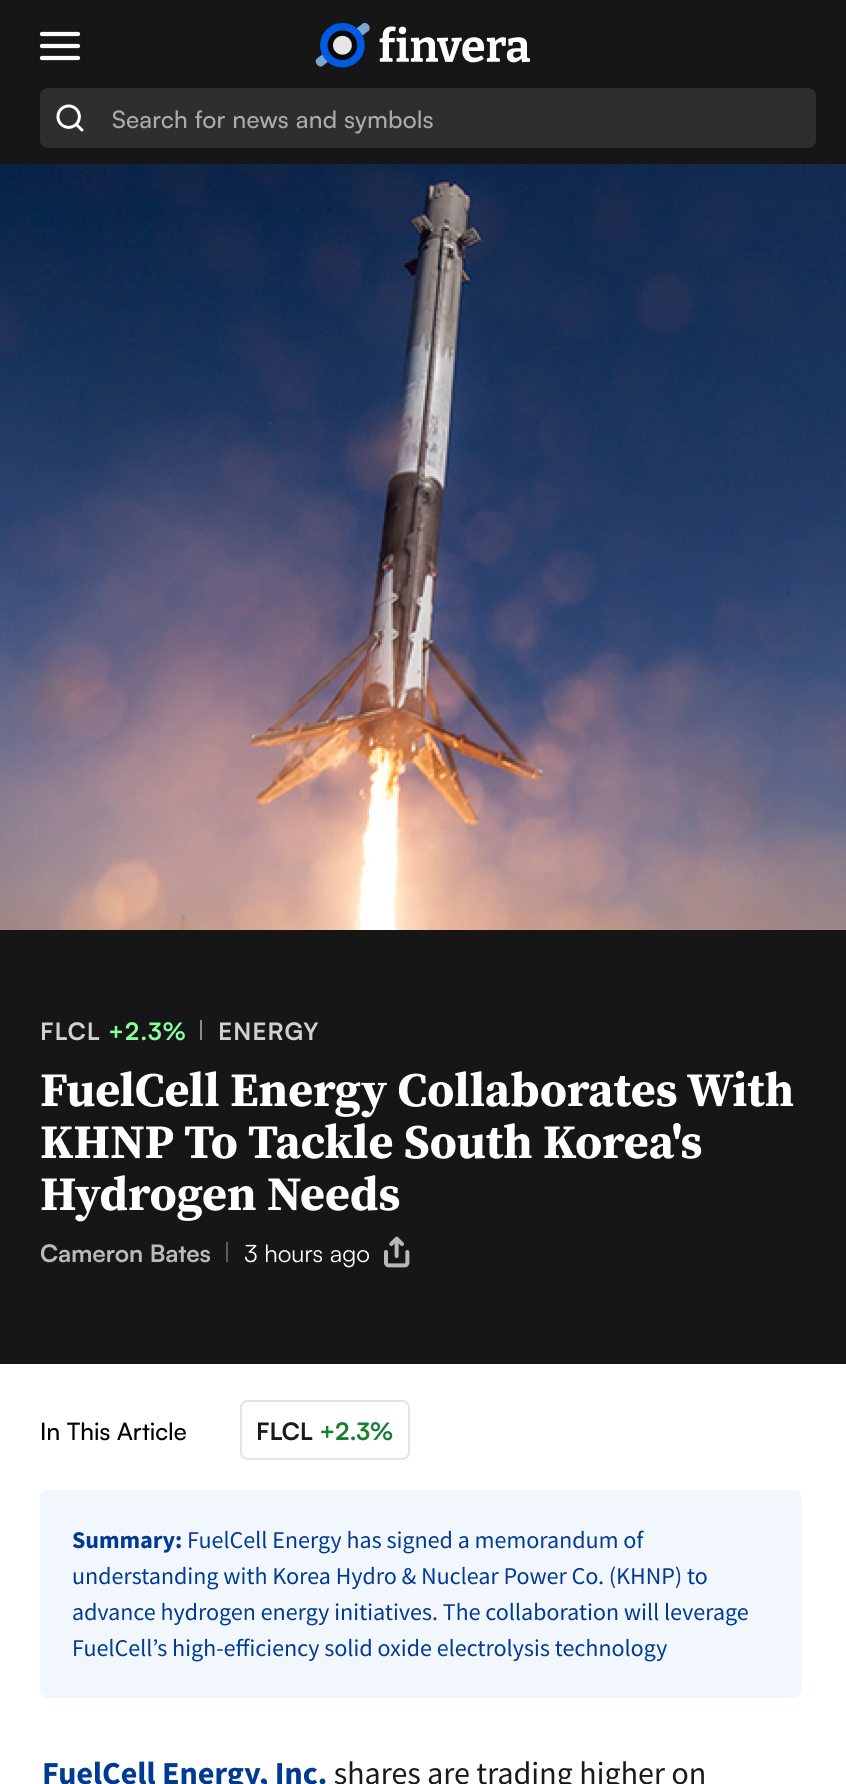
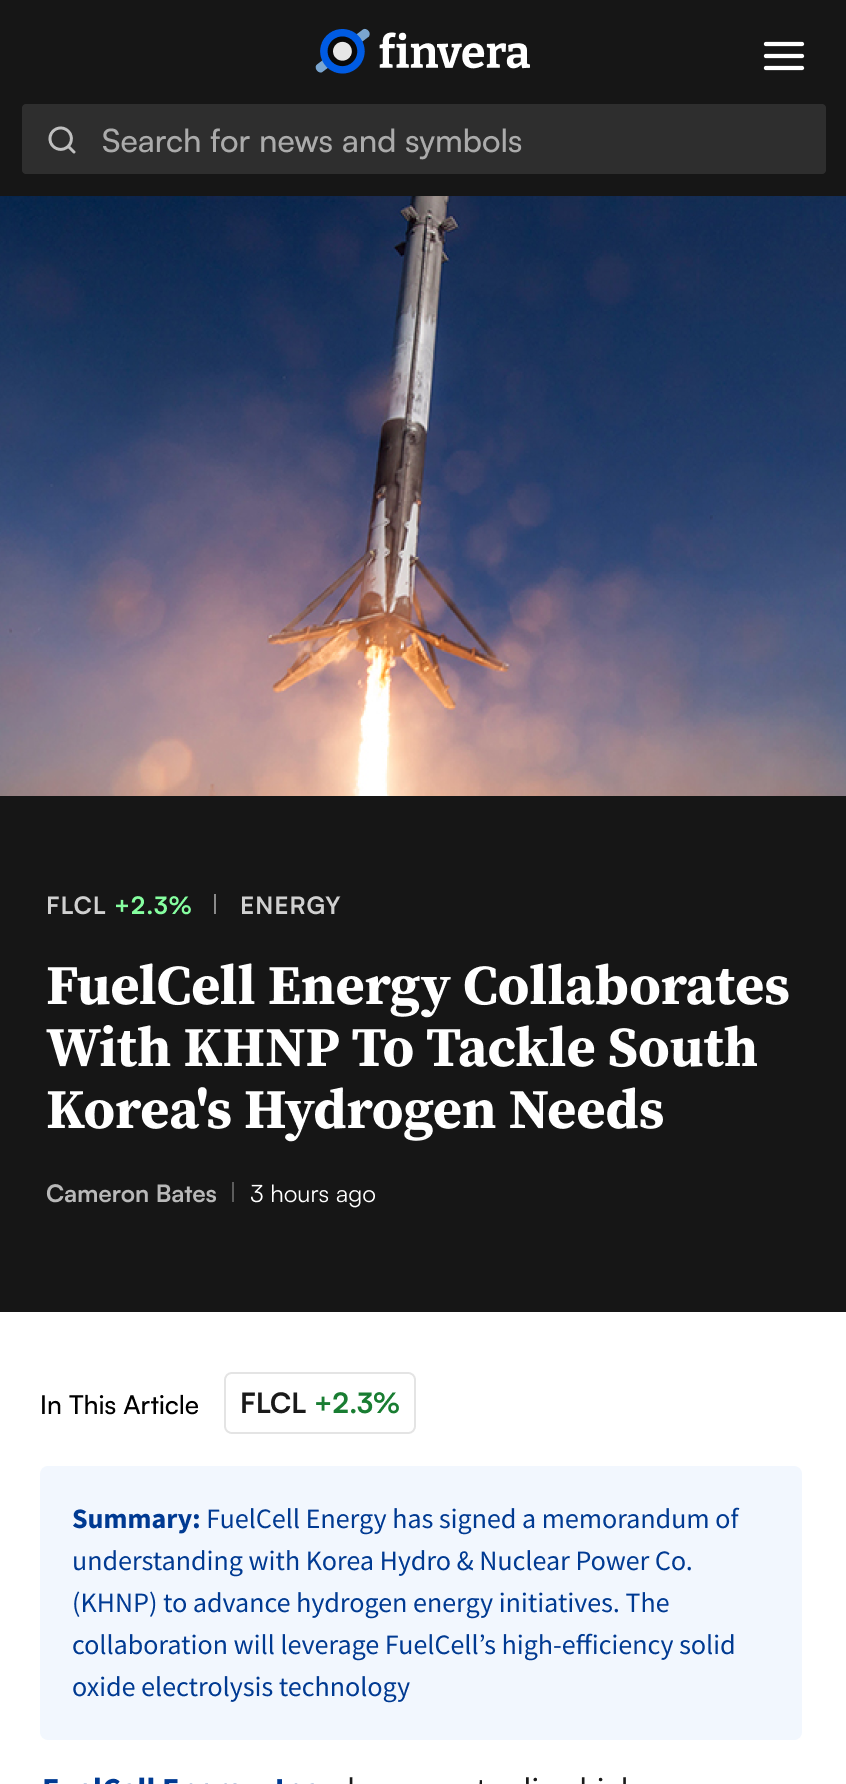
Changes

diff --git a/finvera.html b/finvera.html
@@ -56,11 +56,11 @@
           <article class="cs-content" style="padding: 0 3em;">
 
             <section class="wy-section-narrow">
-              <p class="wy-lede">Finvera is a small-cap stock news platform I designed for a friend's startup. While large-cap stocks have endless coverage, reliable data for the small-cap market is scattered or nonexistent. We built a dedicated home that combines fast-moving news with stock-centric data and tools.</p>
+              <p class="wy-lede">Finvera is a small-cap stock news and data platform. While large-cap stocks have endless coverage, reliable data for the small-cap market is scattered or nonexistent. We built a dedicated home that combines real-time stock data with AI sentiment analysis tools to give investors a clearer picture of where small-caps are headed.</p>
               <div class="wy-columns">
                 <div class="wy-col">
                   <h4>My Role</h4>
-                  <p>UI Designer &amp; Developer</p>
+                  <p>UI Designer &amp; Front-End Developer</p>
                 </div>
                 <div class="wy-col">
                   <h4>Tools / Methods</h4>
@@ -70,21 +70,50 @@ Web Development</p>
                 </div>
                 <div class="wy-col">
                   <h4>Timeline</h4>
-                  <p>2024</p>
+                  <div class="wy-timeline">
+                    <div class="wy-timeline-item">
+                      <div class="wy-timeline-marker"></div>
+                      <div class="wy-timeline-content">
+                        <div class="wy-timeline-date">Dec '24</div>
+                        <div class="wy-timeline-label">Project Start</div>
+                      </div>
+                    </div>
+                    <div class="wy-timeline-item">
+                      <div class="wy-timeline-marker"></div>
+                      <div class="wy-timeline-content">
+                        <div class="wy-timeline-date">Feb '25</div>
+                        <div class="wy-timeline-label">Startup Folds</div>
+                      </div>
+                    </div>
+                  </div>
                 </div>
+              </div>
+              <div class="wy-cta">
+                <a href="https://finvera-site-puxp.vercel.app/" target="_blank" class="button-primary">Visit Finvera <span class="material-icons">open_in_new</span></a>
+                <p style="font-size: 12px; color: rgba(0,0,0,0.45); margin-top: 8px;">Prototype only. The live product is no longer active.</p>
               </div>
             </section>
 
             <section class="cs-article-body" id="gallery-finvera">
 
-
               <div class="cs-article-section">
                 <div class="cs-article-section-label">
                   <span class="cs-section-name">The Challenge</span>
                 </div>
-                <h3>Conversion vs. Trust</h3>
-                <p>The biggest UX tension was figuring out how hard to push users down the funnel without being obnoxious about it. As a small-cap media business, email signups matter — but aggressive gating degrades the reading experience and undermines credibility, especially for investors evaluating whether the site is worth returning to.</p>
-                <p>The work centered on finding the right balance: how much content should be accessible before requiring an email? Too aggressive and you turn people away. Too passive and you don't build your list. The solution was layered access — give enough value upfront to demonstrate what the site offers, then gate the more specialized tools and data.</p>
+                <h3>Solicitation is an art</h3>
+                <p>The biggest UX challenge was nudging users down the funnel without feeling pushy or gating too much content. Flooding the site with ads would undermine our minimalist design strategy, which was meant to distinguish us from competing sites that tend to bombard users with flashy promotions. But hiding too much behind a freewall risked driving up the bounce rate. We needed emails, and we needed to earn them.
+                  </p>
+                <p>The solution was a set of promotional banners, visually consistent with the site's design language, that framed our newsletter as an exclusive resource: "Your unfair advantage in small-cap investing, delivered twice weekly." "Get Finvera's premium newsletter 100% free." The promotions are prominent but never distracting. There are no pop-ups. And beneath the email input field, a short line reads: "We respect your inbox - no spam, ever." Once a user has read three articles, a soft freewall prompts them for their email before unlocking additional content.
+                </p>
+
+                <div class="cs-article-img-grid">
+                  <a href="img/finvera/Article Freewall 4.png" data-src="img/finvera/Article Freewall 4.png">
+                    <img src="img/finvera/Article Freewall 4.png" alt="Finvera — Soft freewall mid-article">
+                  </a>
+                  <a href="img/finvera/Homepage Newsletter Promo.png" data-src="img/finvera/Homepage Newsletter Promo.png">
+                    <img src="img/finvera/Homepage Newsletter Promo.png" alt="Finvera — Homepage newsletter promo">
+                  </a>
+                </div>
               </div>
 
               <div class="cs-article-section">
@@ -92,56 +121,16 @@ Web Development</p>
                   <span class="cs-section-name">Homepage</span>
                 </div>
                 <h3>The Front Page</h3>
-                <p>The site needed to do a lot: display news alongside comprehensive small-cap data, surface stock screeners, pull in analyst ratings, and present social media sentiment — all without overwhelming the reader. I explored several layout directions before landing on a structure that felt both fast and editorial, letting users move from "what happened?" to "what does it mean for this ticker?" without leaving the page.</p>
+                <p>The site needed to communicate Finvera's value as a provider of small-cap news, data, and market sentiment without overwhelming the reader. The goal was to position Finvera as the resource for understanding why small-caps move and where they're headed next. I explored several layout directions before landing on a structure that felt both scannable and editorial, somewhere between a financial dashboard and a news front page.
+                </p>
 
-                <div class="cs-article-img">
-                  <a href="img/finvera/Homepage Alt.png" data-src="img/finvera/Homepage Alt.png">
-                    <img src="img/finvera/Homepage Alt.png" alt="Finvera Homepage — Final design">
+                <div class="cs-article-img-grid cs-article-img-grid--desktop-mobile">
+                  <a href="img/finvera/homepage.png" data-src="img/finvera/homepage.png">
+                    <img src="img/finvera/homepage.png" alt="Finvera — Homepage">
                   </a>
-                </div>
-
-                <div class="cs-article-img-grid">
-                  <a href="img/finvera/Homepage Alt-1.png" data-src="img/finvera/Homepage Alt-1.png">
-                    <img src="img/finvera/Homepage Alt-1.png" alt="Finvera Homepage — Alternate layout A">
-                  </a>
-                  <a href="img/finvera/Homepage Alt-2.png" data-src="img/finvera/Homepage Alt-2.png">
-                    <img src="img/finvera/Homepage Alt-2.png" alt="Finvera Homepage — Alternate layout B">
-                  </a>
-                </div>
-                <p class="cs-article-img-caption">Homepage layout explorations — balancing news density with market data</p>
-
-                <div class="cs-article-img-grid cs-article-img-grid--phone">
                   <a href="img/finvera/Finvera Mobile - Home.png" data-src="img/finvera/Finvera Mobile - Home.png">
                     <img src="img/finvera/Finvera Mobile - Home.png" alt="Finvera — Mobile homepage">
                   </a>
-                  <a href="img/finvera/Finvera Mobile - Article.png" data-src="img/finvera/Finvera Mobile - Article.png">
-                    <img src="img/finvera/Finvera Mobile - Article.png" alt="Finvera — Mobile article view">
-                  </a>
-                </div>
-                <p class="cs-article-img-caption">Mobile views — homepage and article</p>
-              </div>
-
-              <div class="cs-article-section">
-                <div class="cs-article-section-label">
-                  <span class="cs-section-name">Articles &amp; Freewall</span>
-                </div>
-                <h3>A Freewall That Nudges, Not Nags</h3>
-                <p>Instead of hard-gating content immediately, I shaped the experience around allowing a limited amount of reading before requiring an email. Article layouts prioritize readability with generous whitespace and clear typography hierarchy, so users can understand the value of the platform before being asked to subscribe. The freewall placement was designed to feel earned and contextually relevant — not like an interruption.</p>
-
-                <div class="cs-article-img-grid">
-                  <a href="img/finvera/Article Page.png" data-src="img/finvera/Article Page.png">
-                    <img src="img/finvera/Article Page.png" alt="Finvera Article Page">
-                  </a>
-                  <a href="img/finvera/Article Page-1.png" data-src="img/finvera/Article Page-1.png">
-                    <img src="img/finvera/Article Page-1.png" alt="Finvera Article Page — Alternate treatment">
-                  </a>
-                </div>
-
-                <div class="cs-article-img">
-                  <a href="img/finvera/Article Freewall 4.png" data-src="img/finvera/Article Freewall 4.png">
-                    <img src="img/finvera/Article Freewall 4.png" alt="Finvera — Freewall treatment">
-                  </a>
-                  <p class="cs-article-img-caption">Freewall — enough content to demonstrate value before asking for a signup</p>
                 </div>
               </div>
 
@@ -150,24 +139,22 @@ Web Development</p>
                   <span class="cs-section-name">Algorithmic Images</span>
                 </div>
                 <h3>Solving the Image Problem</h3>
-                <p>Articles perform significantly better with compelling visuals, but small-cap companies rarely have high-quality media kits. Being a startup, Finvera didn't have a library of images to draw from either. I designed a fallback system: the site pulls a company's logo when a ticker is the subject, detects the dominant hex code, and generates a matching background gradient. This gave every article a polished, distinct look in feeds and share previews without requiring the team to source or license images for every post.</p>
+                <p><a class="cs-article-link" target="_blank" href="https://www.tandfonline.com/doi/full/10.1080/17512786.2025.2499882">Compelling visuals drive reader engagement</a>, but sourcing quality images is time-consuming and expensive. As a startup, Finvera didn't have a deep image library to draw from either. I designed a fallback system: when a ticker is the subject of an article, the site pulls the company's logo, detects its dominant color, and generates a matching background gradient. This gave every article a polished, distinct look in feeds and share previews, without requiring the team to source or license images for every post.</p>
 
                 <div class="cs-article-img">
                   <a href="img/finvera/News Images - 2.png" data-src="img/finvera/News Images - 2.png">
                     <img src="img/finvera/News Images - 2.png" alt="Finvera — Algorithmic image generation system">
                   </a>
-                  <p class="cs-article-img-caption">Algorithmically generated article images — logo + dominant color gradient</p>
                 </div>
 
-                <div class="cs-article-img-grid">
-                  <a href="img/finvera/Newsletter.png" data-src="img/finvera/Newsletter.png">
-                    <img src="img/finvera/Newsletter.png" alt="Finvera Newsletter">
+                <div class="cs-article-img-grid cs-article-img-grid--desktop-mobile">
+                  <a href="img/finvera/Article Page.png" data-src="img/finvera/Article Page.png">
+                    <img src="img/finvera/Article Page.png" alt="Finvera — Article page">
                   </a>
-                  <a href="img/finvera/Newsletter-1.png" data-src="img/finvera/Newsletter-1.png">
-                    <img src="img/finvera/Newsletter-1.png" alt="Finvera Newsletter — Alternate">
+                  <a href="img/finvera/Finvera Mobile - Article.png" data-src="img/finvera/Finvera Mobile - Article.png">
+                    <img src="img/finvera/Finvera Mobile - Article.png" alt="Finvera — Mobile article view">
                   </a>
                 </div>
-                <p class="cs-article-img-caption">Newsletter templates using the same visual system</p>
               </div>
 
               <div class="cs-article-section">
@@ -175,31 +162,30 @@ Web Development</p>
                   <span class="cs-section-name">Screeners &amp; Data</span>
                 </div>
                 <h3>Making Dense Data Usable</h3>
-                <p>The platform includes stock screeners (top gainers, top losers, highest and lowest rated), earnings calendars, individual quote pages, and live earnings call transcripts. These are the most data-dense pages in the product, so the design focused on making complex filtering feel straightforward — supporting real workflows without parameter overload. Social media sentiment is surfaced alongside traditional analyst ratings, but presented as a supporting signal rather than the main event, so it adds context without competing for attention.</p>
+                <p>The platform includes stock screeners, earnings calendars, individual quote pages, and live earnings call transcripts. The design focused on making complex filtering feel straightforward, supporting real workflows without overwhelming users with options.</p>
 
                 <div class="cs-article-img-grid">
                   <a href="img/finvera/Screener.png" data-src="img/finvera/Screener.png">
                     <img src="img/finvera/Screener.png" alt="Finvera — Stock screener with filters">
                   </a>
-                  <a href="img/finvera/Screeners Hub.png" data-src="img/finvera/Screeners Hub.png">
-                    <img src="img/finvera/Screeners Hub.png" alt="Finvera — Screeners hub overview">
+                  <a href="img/finvera/Screeners Hub-1.png" data-src="img/finvera/Screeners Hub-1.png">
+                    <img src="img/finvera/Screeners Hub-1.png" alt="Finvera — Screeners hub">
                   </a>
                 </div>
 
                 <div class="cs-article-img-grid">
-                  <a href="img/finvera/Screeners Hub-1.png" data-src="img/finvera/Screeners Hub-1.png">
-                    <img src="img/finvera/Screeners Hub-1.png" alt="Finvera — Screeners hub alternate view">
-                  </a>
                   <a href="img/finvera/Earnings Calendar.png" data-src="img/finvera/Earnings Calendar.png">
                     <img src="img/finvera/Earnings Calendar.png" alt="Finvera — Earnings calendar">
                   </a>
-                </div>
-
-                <div class="cs-article-img">
                   <a href="img/finvera/Quote Page.png" data-src="img/finvera/Quote Page.png">
                     <img src="img/finvera/Quote Page.png" alt="Finvera — Individual stock quote page">
                   </a>
-                  <p class="cs-article-img-caption">Quote page — real-time data, key metrics, and related news in one view</p>
+                </div>
+
+                <div class="cs-article-img-grid cs-article-img-grid--phone cs-article-img-grid--phone--single">
+                  <a href="img/finvera/Finvera Mobile - Screener Scrolled.png" data-src="img/finvera/Finvera Mobile - Screener Scrolled.png">
+                    <img src="img/finvera/Finvera Mobile - Screener Scrolled.png" alt="Finvera — Mobile screener scrolled">
+                  </a>
                 </div>
               </div>
 
@@ -216,12 +202,6 @@ Web Development</p>
                   </a>
                   <a href="img/finvera/Contributor Page.png" data-src="img/finvera/Contributor Page.png">
                     <img src="img/finvera/Contributor Page.png" alt="Finvera — Contributor profile page">
-                  </a>
-                </div>
-
-                <div class="cs-article-img">
-                  <a href="img/finvera/415.png" data-src="img/finvera/415.png">
-                    <img src="img/finvera/415.png" alt="Finvera — Error page">
                   </a>
                 </div>
               </div>

diff --git a/css/style.css b/css/style.css
@@ -165,6 +165,9 @@
 .wy-section-wide .wy-content h3 { font-size: 32px; font-weight: 800; margin: 0 0 16px 0; }
 .wy-section-wide .wy-content p { font-size: 20px; line-height: 1.7; margin: 0; }
 
+.cs-article-link { 
+    text-decoration: underline; }
+
 /*
  * SOLUTIONS SECTION
  * This version corrects layout, alignment, and sticky behavior issues.
@@ -1117,9 +1120,17 @@ ol {
     min-height: 300px;
 }
 
-.project-card:hover {
-    /* transform: translateY(-8px); */ /* REMOVED */
-    /* box-shadow: 0 12px 24px rgba(0,0,0,0.1); */ /* REMOVED */
+.project-card::after {
+    content: '';
+    position: absolute;
+    inset: 0;
+    background: transparent;
+    transition: background 0.15s ease;
+    pointer-events: none;
+}
+
+.project-card:hover::after {
+    background: rgba(0, 0, 0, 0.02);
 }
 
 .project-card-content-wrapper { 
@@ -2310,6 +2321,20 @@ ol .project-image{
     width: auto;
     object-fit: contain;
     border-radius: 4px;
+}
+
+/* Hover darkening overlay */
+.mini-card::after {
+    content: '';
+    position: absolute;
+    inset: 0;
+    background: transparent;
+    transition: background 0.15s ease;
+    pointer-events: none;
+}
+
+.mini-card:hover::after {
+    background: rgba(0, 0, 0, 0.02);
 }
 
 /* Mini card theme colors */
@@ -4457,6 +4482,8 @@ section#wy-solutions + .wy-article-body {
 .cs-article-img a {
     display: block;
     overflow: hidden;
+    border: 1px solid #e0e0e0;
+    border-radius: 2px;
 }
 
 .cs-article-img img {
@@ -4464,8 +4491,6 @@ section#wy-solutions + .wy-article-body {
     height: auto;
     display: block;
     cursor: pointer;
-    border: 1px solid #e0e0e0;
-    border-radius: 2px;
 }
 
 /* 2-column image grid */
@@ -4496,6 +4521,8 @@ section#wy-solutions + .wy-article-body {
 .cs-article-img-grid a {
     display: block;
     overflow: hidden;
+    border: 1px solid #e0e0e0;
+    border-radius: 2px;
 }
 
 .cs-article-img-grid img {
@@ -4503,18 +4530,18 @@ section#wy-solutions + .wy-article-body {
     height: auto;
     display: block;
     cursor: pointer;
-    border: 1px solid #e0e0e0;
-    border-radius: 2px;
 }
 
 /* Image caption */
 .cs-article-img-caption {
     font-size: 12px;
-    color: rgba(0, 0, 0, .7);
+    font-style: italic;
+    color: rgba(0, 0, 0, 0.5);
     margin-top: 10px;
+    letter-spacing: 0.01em;
 }
 @media (min-width: 768px) {
-    .cs-article-img-caption { font-size: 14px; }
+    .cs-article-img-caption { font-size: 13px; }
 }
 
 /* Scroll reveal before/after */
@@ -4556,8 +4583,21 @@ section#wy-solutions + .wy-article-body {
 
 /* Phone mockup grid — constrains tall portrait screenshots */
 .cs-article-img-grid--phone {
+    grid-template-columns: repeat(3, 1fr);
     align-items: start;
     justify-items: center;
+}
+
+/* Single phone screenshot — centered, width-capped */
+.cs-article-img-grid--phone--single {
+    display: flex;
+    justify-content: center;
+}
+
+@media (max-width: 700px) {
+    .cs-article-img-grid--phone {
+        grid-template-columns: 1fr 1fr;
+    }
 }
 
 .cs-article-img-grid--phone a {
@@ -4570,6 +4610,25 @@ section#wy-solutions + .wy-article-body {
     width: auto;
     max-width: 100%;
     margin: 0 auto;
+    border: 1px solid #e0e0e0;
+    border-radius: 2px;
+}
+
+/* Desktop + mobile side-by-side grid */
+.cs-article-img-grid--desktop-mobile {
+    grid-template-columns: 3fr 1fr;
+    align-items: start;
+}
+
+.cs-article-img-grid--desktop-mobile a:last-child {
+    display: flex;
+    justify-content: center;
+}
+
+.cs-article-img-grid--desktop-mobile a:last-child img {
+    width: auto;
+    max-width: 100%;
+    max-height: 500px;
 }
 
 /* ================================================

diff --git a/which_year.html b/which_year.html
@@ -133,6 +133,7 @@ React</p>
 
               <div class="wy-cta">
                 <a href="https://whichyear.chriscreguer.com" target="_blank" class="button-primary">Play WhichYear <span class="material-icons">open_in_new</span></a>
+                <p style="font-size: 12px; color: rgba(0,0,0,0.45); margin-top: 8px;">Demo snapshot. Preserved at the time of acquisition.</p>
               </div>
             </section>
 
